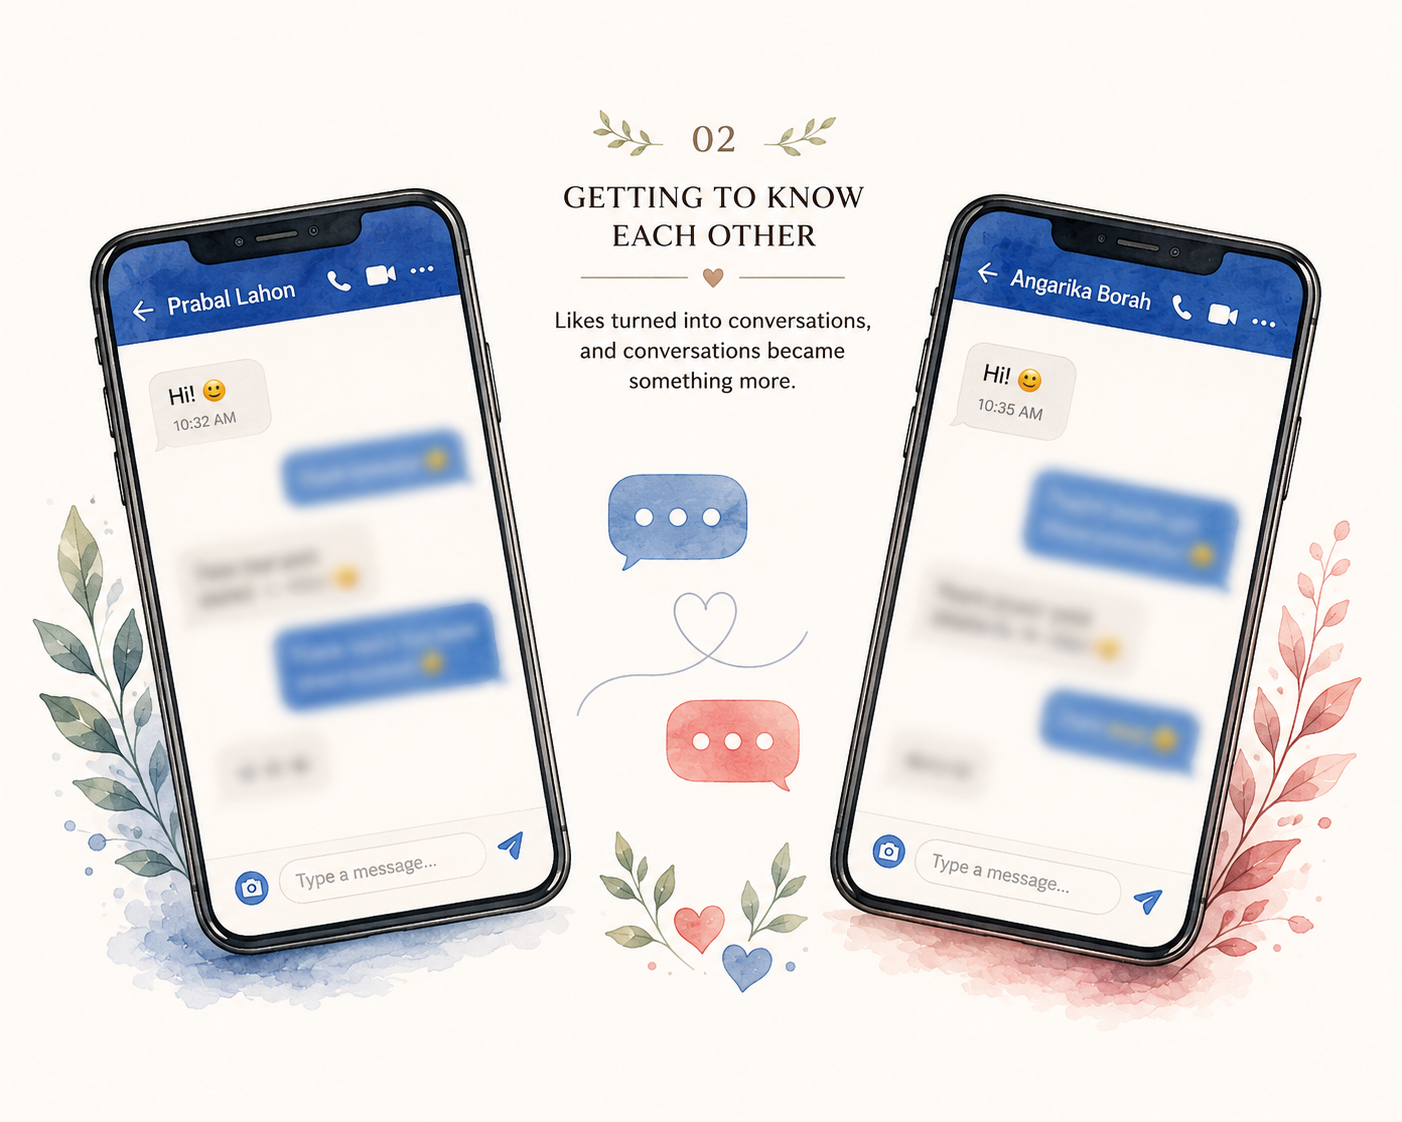
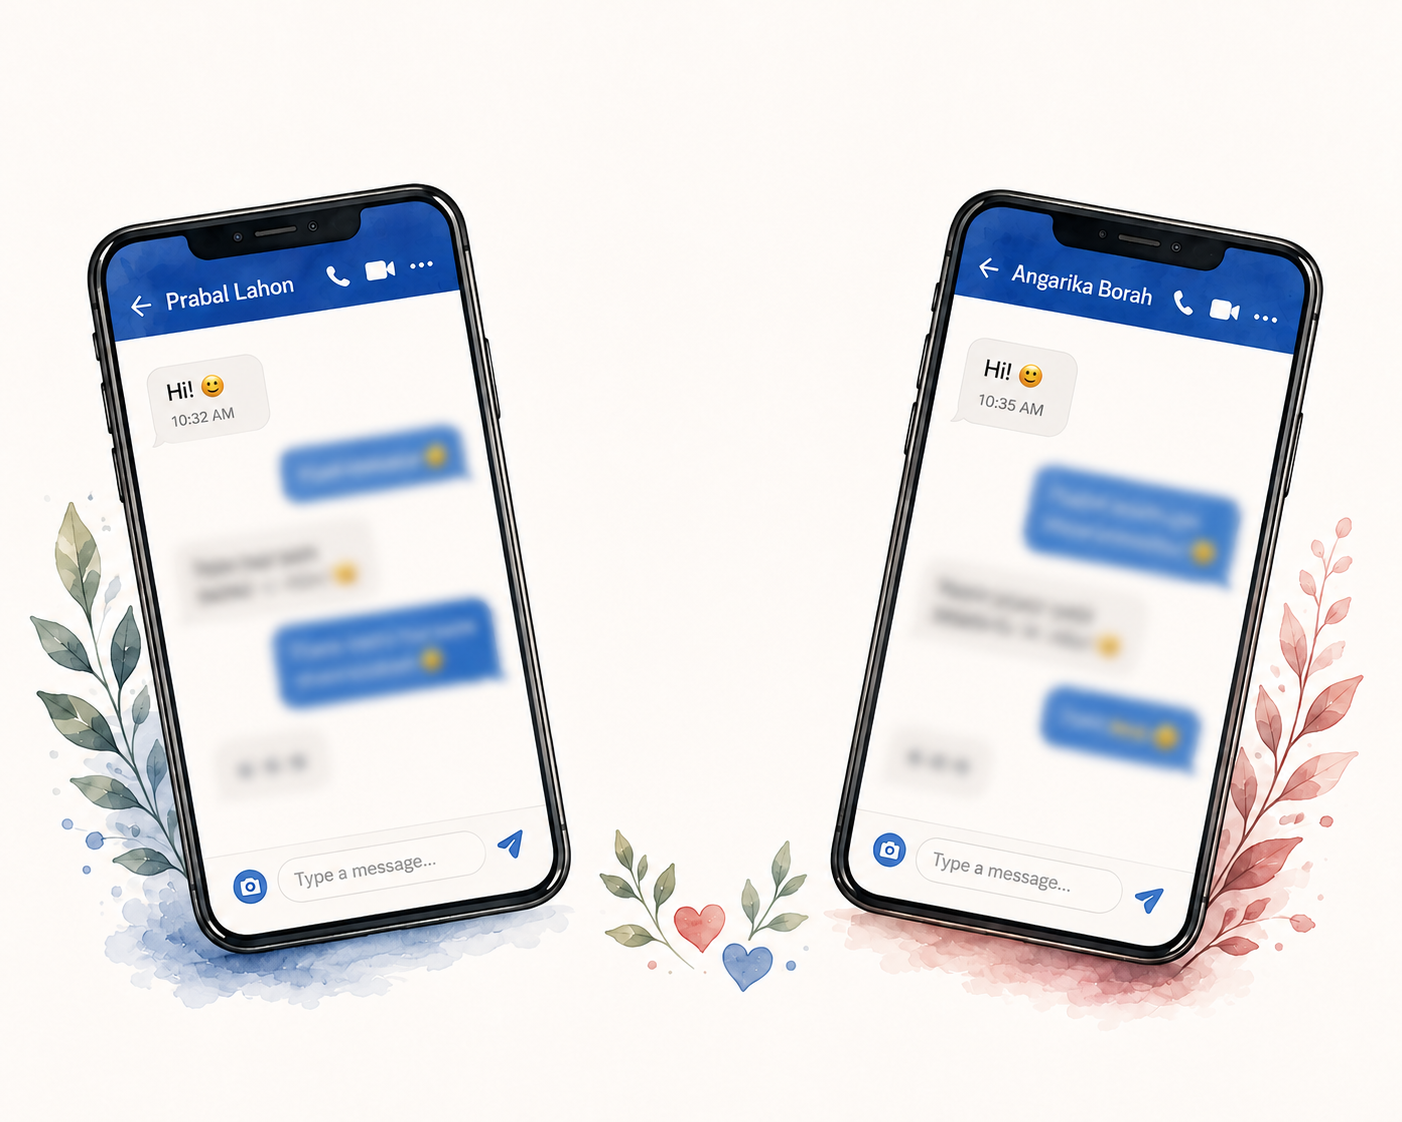
Added gamusa behind envelope

diff --git a/css/envelope-background.css b/css/envelope-background.css
@@ -1,0 +1,203 @@
+.launch-decoration {
+    position: absolute;
+    inset: 0;
+ 
+    overflow: hidden;
+ 
+    pointer-events: none;
+ 
+    z-index: 1;
+}
+ 
+ 
+/* =========================================================
+   GAMUSA
+========================================================= */
+ 
+.launch-gamusa {
+    position: absolute;
+ 
+    width: min(100vw, 700px);
+ 
+    height: auto;
+ 
+    left: 50%;
+    top: 50%;
+ 
+    transform:
+        translate(-50%, -50%)
+        rotate(-3deg);
+ 
+    opacity: 0.6;
+ 
+    z-index: 3;
+ 
+    pointer-events: none;
+ 
+    filter:
+        saturate(0.8)
+        drop-shadow(
+            0 12px 20px rgba(80, 50, 20, 0.08)
+        );
+}
+
+.launch-flower {
+    position: absolute;
+ 
+    z-index: 3;
+ 
+    pointer-events: none;
+ 
+    opacity: 0.65;
+}
+ 
+.flower-1 {
+    right: calc(50% - (min(62vw, 220px)));
+    top: 30%;
+    z-index: 2;
+ 
+    width: min(30vw, 60px);
+    height: auto;
+    rotate: 50deg;
+    animation:
+        launchFlowerFloat
+        6s ease-in-out infinite;
+}
+ 
+.flower-2 {
+    left: calc(50% - (min(62vw, 220px)));
+    bottom: 30%;
+    z-index: 2;
+ 
+    width: min(40vw, 100px);
+    height: auto;
+    animation:
+        launchFlowerFloat
+        4s ease-in-out infinite;
+
+}
+
+@keyframes launchFlowerFloat {
+ 
+    0%,
+    100% {
+        transform: translateY(0);
+    }
+ 
+    50% {
+        transform: translateY(-10px);
+    }
+}
+
+.launch-leaf {
+    position: absolute;
+ 
+    width: min(40vw, 150px);
+    height: auto;
+ 
+    pointer-events: none;
+ 
+    opacity: 0.6;
+}
+ 
+.leaf-1 {
+    left: calc(50% + (min(62vw, 220px)));
+    top: 30%;
+    z-index: 2;
+
+    --rotation:-10deg;
+    animation:
+        launchLeafFloat
+        4s ease-in-out infinite;
+}
+
+.leaf-2 {
+    right: calc(50% + (min(62vw, 220px) - 30px));
+    top: 38%;
+    z-index: 5;
+ 
+    --rotation:-25deg;
+    animation:
+        launchLeafFloat
+        8s ease-in-out infinite;
+}
+ 
+@keyframes launchLeafFloat {
+ 
+    0%,
+    100% {
+        transform: translateY(0) rotate(var(--rotation)) ;
+    }
+
+    40% {
+        transform: translateY(10px) rotate(var(--rotation));
+    }
+}
+
+.launch-dot {
+    position: absolute;
+ 
+    z-index: 4;
+
+    color: #b88a4b;
+ 
+    font-family: Georgia, serif;
+ 
+    opacity: 0.8;
+ 
+    pointer-events: none;
+ 
+    animation:
+        launchDotFloat
+        4s ease-in-out infinite;
+}
+ 
+.dot-1 {
+    left: calc(50% - 105px);
+    top: 25%;
+    font-size: 55px;
+}
+ 
+.dot-2 {
+    right: calc(50% - 115px);
+    top: 35%;
+    font-size: 40px;
+ 
+    animation-delay: 1s;
+}
+ 
+.dot-3 {
+    left: calc(50% - 120px);
+    bottom: 35%;
+    font-size: 37px;
+}
+ 
+.dot-4 {
+    right: calc(50% - 105px);
+    bottom: 30%;
+    font-size: 34px;
+ 
+    animation-delay: .7s;
+}
+.dot-5 {
+    right: calc(50% + 10px);
+    bottom: 20%;
+    font-size: 31px;
+ 
+    animation-delay: .7s;
+}
+ 
+ 
+@keyframes launchDotFloat {
+ 
+    0%,
+    100% {
+        opacity: 0.8;
+        transform: translateY(0);
+    }
+ 
+    50% {
+        opacity: 0.4;
+        transform: translateY(-5px);
+    }
+}

diff --git a/index.html b/index.html
@@ -38,6 +38,7 @@
     <link rel="stylesheet" href="css/responsive.css">
     <link rel="stylesheet" href="css/countdown.css">
     <link rel="stylesheet" href="css/envelope.css">
+    <link rel="stylesheet" href="css/envelope-background.css">
 
 </head>
 
@@ -48,6 +49,48 @@
 ========================================================= -->
 
     <div id="envelope-screen">
+        <div class="launch-decoration">
+            <!-- Gamusa behind envelope -->
+            <img
+                src="assets/images/gamusa_fold.png"
+                class="launch-gamusa"
+                alt=""
+            >
+        
+            <!-- Small decorative elements -->
+            <span class="launch-flower flower-1">🌸</span>
+            <span class="launch-flower flower-2">🌸</span>
+
+            <img
+                src="assets/images/leaf_left.png"
+                class="launch-leaf leaf-2"
+                alt=""
+            >
+            <img
+                src="assets/images/leaf_right.png"
+                class="launch-leaf leaf-1"
+                alt=""
+            >
+
+            <img
+                src="assets/images/pink_flower.png"
+                class="launch-flower flower-2"
+                alt=""
+            >
+
+            <img
+                src="assets/images/pink_flower.png"
+                class="launch-flower flower-1"
+                alt=""
+            >
+        
+            <span class="launch-dot dot-1">·</span>
+            <span class="launch-dot dot-2">·</span>
+            <span class="launch-dot dot-3">·</span>
+            <span class="launch-dot dot-4">·</span>
+            <span class="launch-dot dot-5">·</span>
+        
+        </div>
 
         <div class="envelope-wrapper">
 

diff --git a/sw.js b/sw.js
@@ -1,4 +1,4 @@
-const CACHE_NAME = "wedding-invitation-v37";
+const CACHE_NAME = "wedding-invitation-v41";
 const CORE_ASSETS = [
   "index.html",
 
@@ -10,6 +10,7 @@ const CORE_ASSETS = [
   "css/cards.css",
   "css/colors.css",
   "css/envelope.css",
+  "css/envelope-background..css",
 
   "js/main.js",
   "js/countdown.js",
@@ -35,6 +36,10 @@ const CORE_ASSETS = [
   "assets/images/love_begin.png"
   "assets/images/proposal.png"
   "assets/images/infinite.png"
+  "assets/images/gamusa_fold.png"
+  "assets/images/leaf_left.png"
+  "assets/images/leaf_right.png"
+  "assets/images/pink_flower.png"
 ];
 
 self.addEventListener("install", (event) => {

diff --git a/css/responsive.css b/css/responsive.css
@@ -597,6 +597,10 @@
         font-size: 12px;
         letter-spacing: 1px;
     }
+
+    .launch-leaf {
+        width: 30vw;
+    }
 }
 
 
@@ -682,6 +686,9 @@
 
         width:60vw;
 
+    }
+    .launch-leaf {
+        width: 30vw;
     }
 
 }

diff --git a/css/envelope.css b/css/envelope.css
@@ -45,6 +45,7 @@
     align-items: center;
 
     perspective: 1200px;
+    z-index: 10;
 }
 
 
